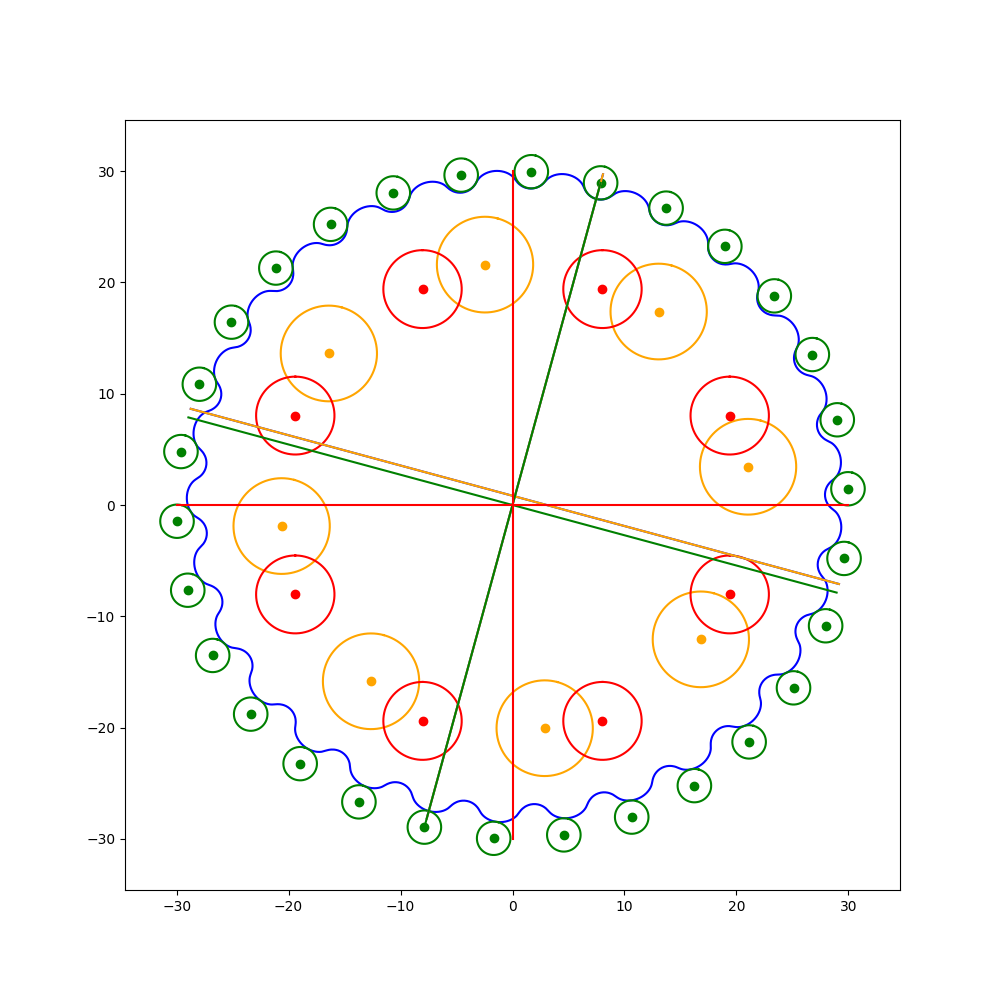
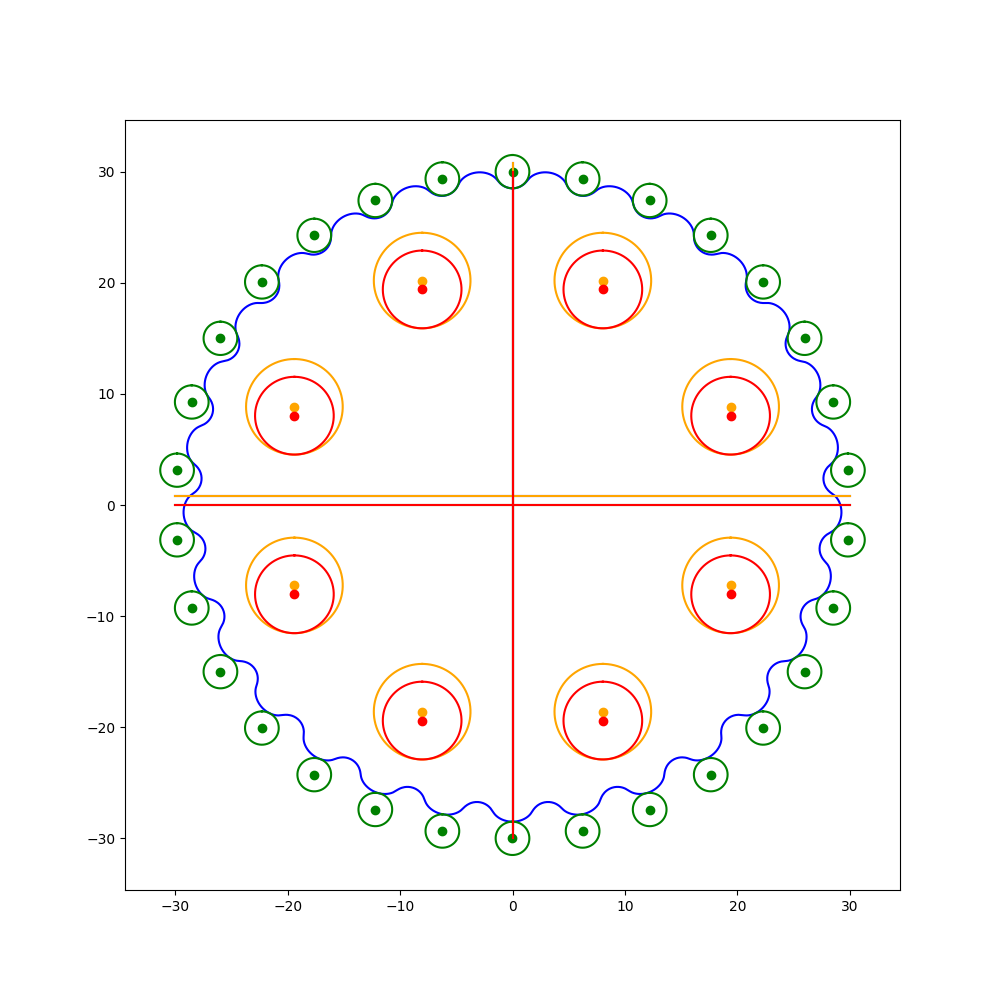
committing hertzian theory equations completed

diff --git a/cfdmclasses.py b/cfdmclasses.py
@@ -352,10 +352,21 @@ class OutputPin:
 
 
 # Hertzian contact theory
-def a(Fc, p_1, p_2, E_1, E_2, v_1, v_2, concavity):
+def a(Fc, p_1, p_2, E_1, E_2, v_1, v_2, b, concavity): #half the contact deformation width
     p_star = 0
     if concavity == "Convex and concave":
         p_star = abs((p_1*p_2)/(p_1-p_2))
     if concavity == "Convex and convex": 
         p_star = abs((p_1*p_2)/(p_1+p_2))
-    return np.sqrt((4*Fc*p_star*(E_1*(1-v_1**2)+E_2(1-v_2**2))))
+    return np.sqrt((4*Fc*p_star*(E_1*(1-v_1**2)+E_2(1-v_2**2)))/(np.pi*b*E_1*E_2))
+
+def delta_(Fc, p_1, p_2, E_1, E_2, v_1, v_2, b, concavity): #deformation
+    a = a_(Fc, p_1, p_2, E_1, E_2, v_1, v_2, b, concavity)
+    return (((1-v_1**2)/E_1)*(np.log((4*abs(p_1))/a)-1/2)+((1-v_2**2)/E_2)*(np.log((4*abs(p_2))/a)-1/2))*(2*Fc)/(np.pi*b)
+
+def sigma_(Fc, p_1, p_2, E_1, E_2, v_1, v_2, b, concavity): #contact stress
+    a = a_(Fc, p_1, p_2, E_1, E_2, v_1, v_2, b, concavity)
+    return 2*Fc/(np.pi*a*b)
+
+
+

diff --git a/plotting.py b/plotting.py
@@ -2,7 +2,7 @@ import numpy as np
 import matplotlib.pyplot as plt
 import cfdmclasses
 
-angle = 50
+angle = 0
 
 #creating objects
 mycycloid = cfdmclasses.Cycloid()
